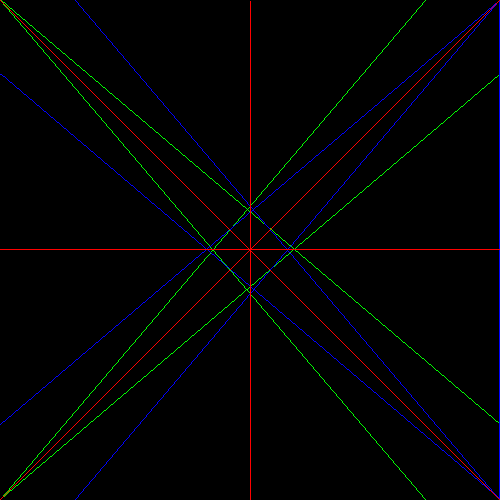
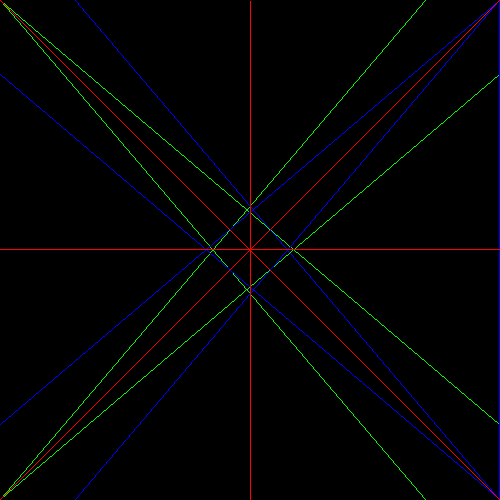
updates3

diff --git a/line/draw.c b/line/draw.c
@@ -106,7 +106,7 @@ void draw_line(int x0, int y0, int x1, int y1, screen s, color c) {
 		y *= -1;
 		A = (-1*y1) - (-1*y0);
 		
-		d = A + (2*B);
+		d = (2*A) + B;
 	
 		while(x<=x1) {
 			
